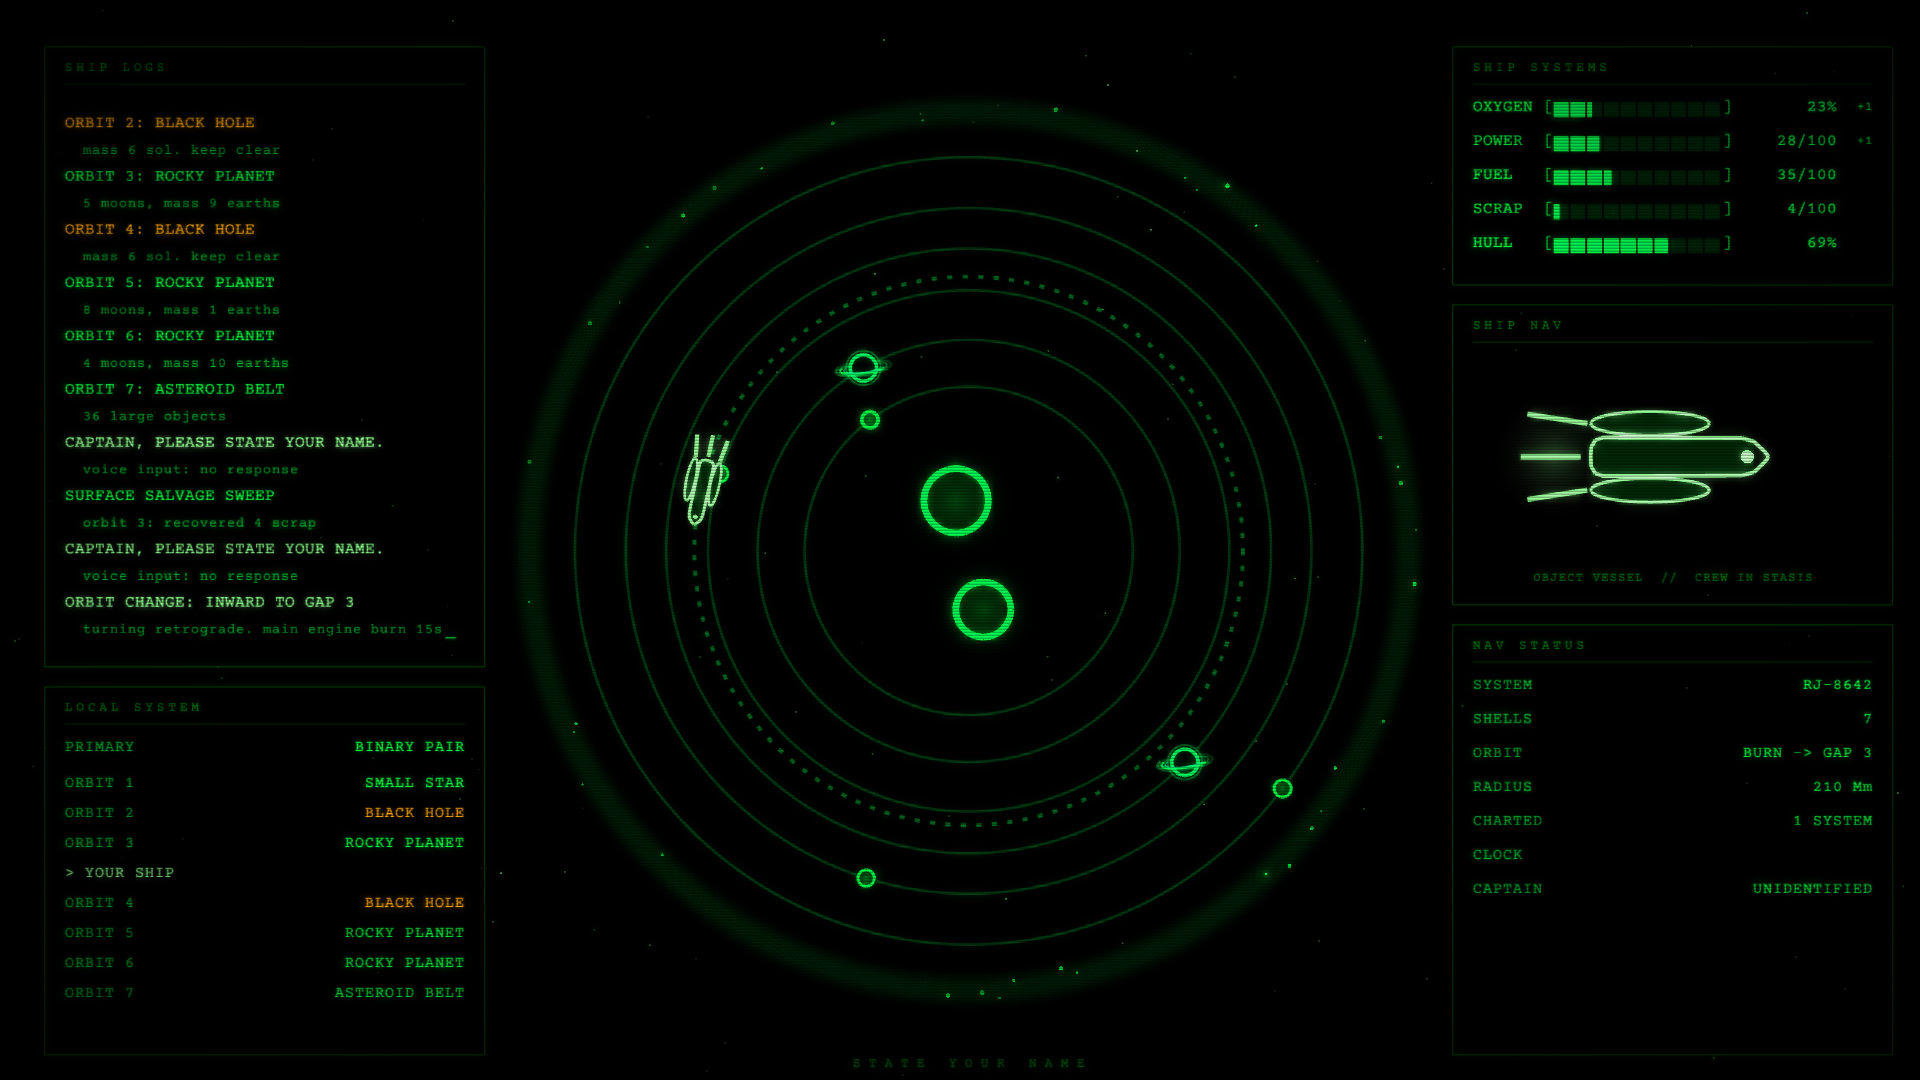
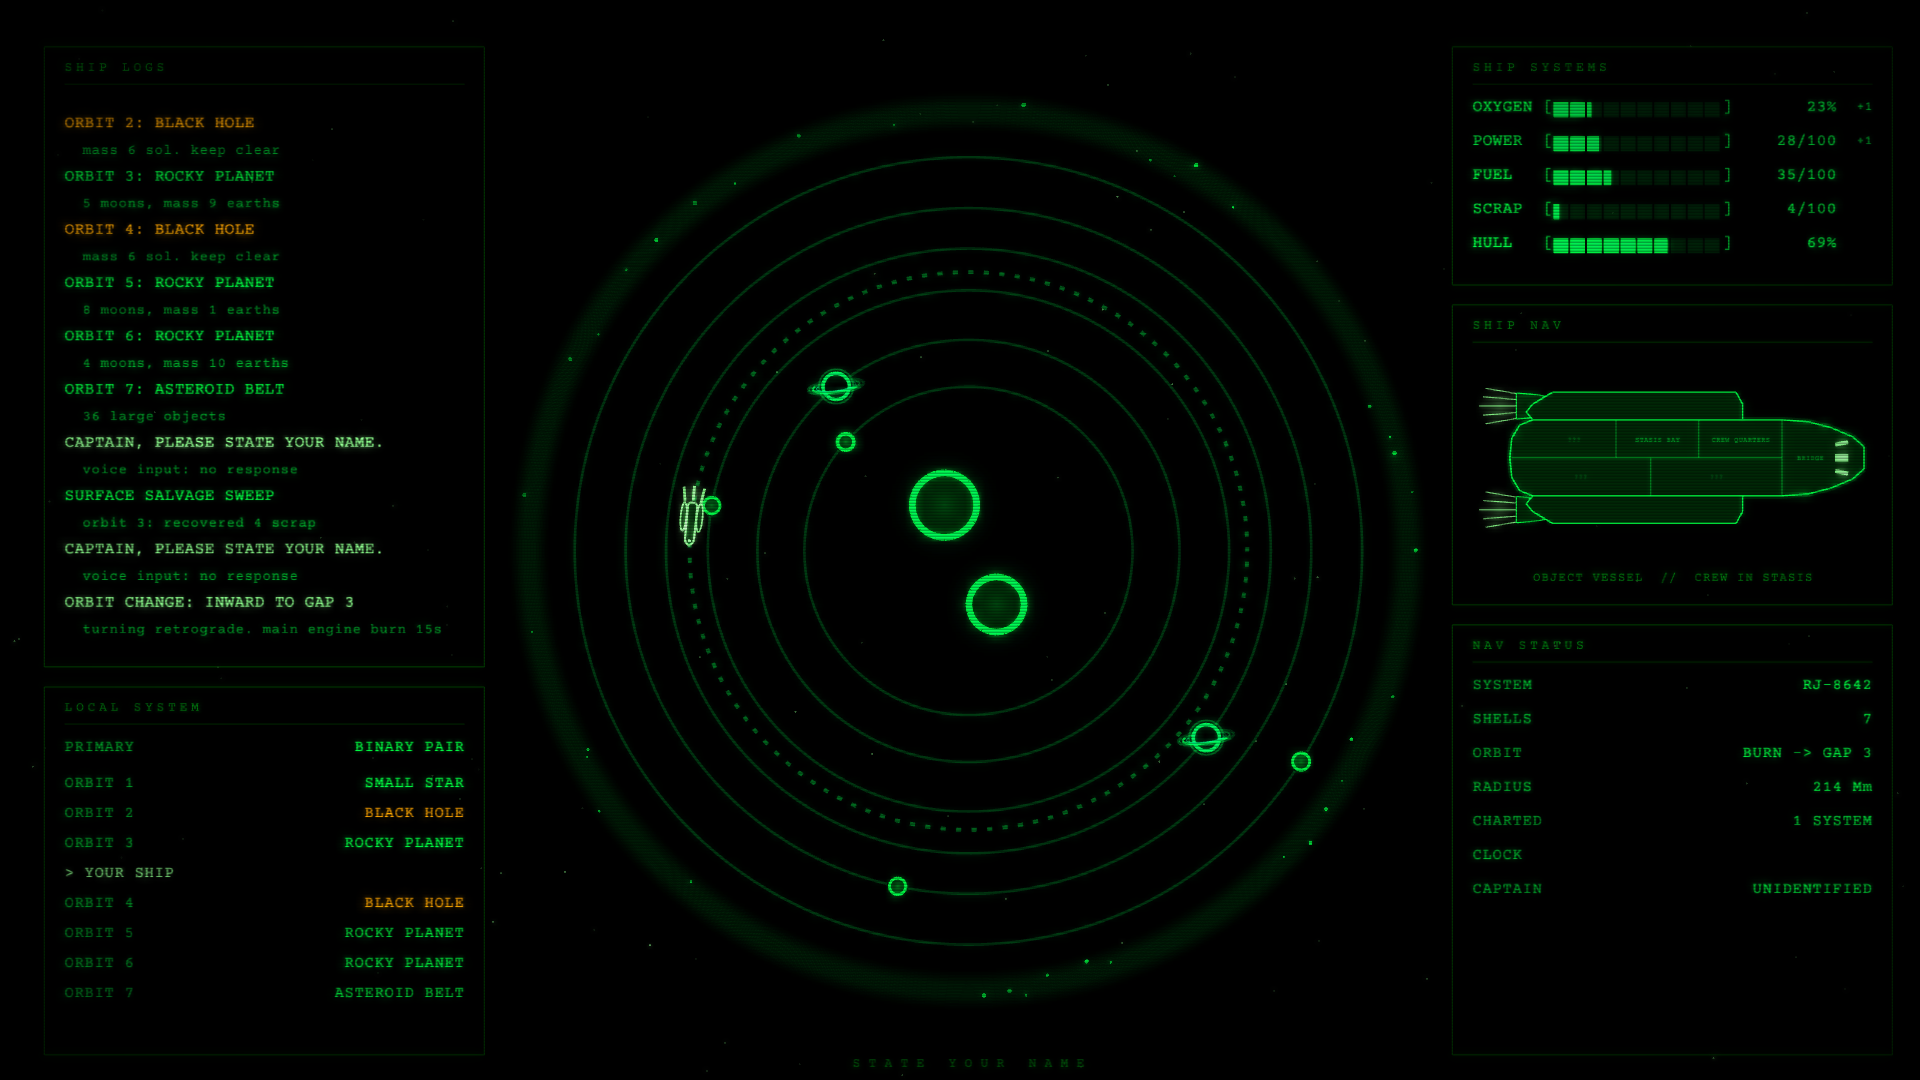
Use the game's ship schematic; shrink the orbiting ship
- SHIP NAV panel now draws the game's top-down ship plan: hull with
  tapered bridge and viewports, twin engine pods with flared nozzles and
  five-line exhaust fans, section dividers, and room labels (??? for
  locked rooms)
- Add polygon fill and polyline primitives for it
- Orbiting ship in the system view is about a third smaller
- Refresh README screenshot and GIFs

diff --git a/src/Screensaver/Hud/ShipSchematic.cs b/src/Screensaver/Hud/ShipSchematic.cs
@@ -1,0 +1,112 @@
+using System;
+using System.Collections.Generic;
+using System.Linq;
+using Microsoft.Xna.Framework;
+using StateYourNameScreensaver.Rendering;
+
+namespace StateYourNameScreensaver.Hud;
+
+/// <summary>
+/// The top-down ship plan from the game's SHIP NAV panel (bow to the right): a long hull with
+/// the bridge at the nose, two engine pods with flared nozzles, and the ship's sections.
+/// Coordinates are in the game's 680×300 schematic space.
+/// </summary>
+public static class ShipSchematic
+{
+	static readonly Vector2[] Hull = P(
+		120, 92, 500, 92, 540, 95, 575, 104, 608, 118, 625, 133, 625, 167, 608, 182, 575, 196, 540, 205,
+		500, 208, 120, 208, 100, 200, 88, 180, 85, 150, 88, 120, 100, 100);
+
+	static readonly Vector2[] PortPod = P(150, 50, 430, 50, 440, 68, 440, 92, 120, 92, 110, 80, 120, 68);
+	static readonly Vector2[] StarboardPod = Mirror(PortPod);
+
+	// Engine nozzle flaring back from the pod; the part under the pod is covered when the pod is drawn.
+	static readonly Vector2[] PortNozzle = P(190, 61, 168, 61, 150, 58, 128, 54, 95, 51, 95, 91, 128, 88, 150, 84, 168, 81, 190, 81);
+	static readonly Vector2[] StarboardNozzle = Mirror(PortNozzle);
+
+	static readonly (Vector2 From, Vector2 To)[] Exhaust =
+	{
+		(new(95, 52), new(48, 44)), (new(95, 61), new(44, 57)), (new(95, 71), new(38, 71)),
+		(new(95, 81), new(44, 85)), (new(95, 90), new(48, 98))
+	};
+
+	static readonly (Vector2 From, Vector2 To)[] Dividers =
+	{
+		(new(500, 92), new(500, 208)), (new(88, 150), new(500, 150)),
+		(new(247, 92), new(247, 150)), (new(373, 92), new(373, 150)), (new(300, 150), new(300, 208))
+	};
+
+	static readonly (string Label, Vector2 At)[] Sections =
+	{
+		("BRIDGE", new(555, 150)), ("???", new(183, 122)), ("STASIS BAY", new(310, 122)),
+		("CREW QUARTERS", new(437, 122)), ("???", new(400, 179)), ("???", new(193, 179))
+	};
+
+	// Bridge viewports: (center, size, tilt in degrees)
+	static readonly (Vector2 Center, Vector2 Size, float Tilt)[] Windows =
+	{
+		(new(591, 128), new(20, 6), -12), (new(591, 150), new(20, 12), 0), (new(591, 172), new(20, 6), 12)
+	};
+
+	// The game's view box.
+	static readonly Rectangle View = new(28, 34, 610, 232);
+
+	static Vector2[] P(params float[] xy) => Enumerable.Range(0, xy.Length / 2).Select(i => new Vector2(xy[i * 2], xy[i * 2 + 1])).ToArray();
+	static Vector2[] Mirror(Vector2[] points) => points.Select(p => new Vector2(p.X, 300 - p.Y)).ToArray();
+
+	public static void Draw(Prim p, Text text, Vector2 at, Vector2 size, float time, bool exhaust, float fade)
+	{
+		float scale = Math.Min(size.X / View.Width, size.Y / View.Height);
+		var origin = at + (size - new Vector2(View.Width, View.Height) * scale) / 2 - new Vector2(View.X, View.Y) * scale
+			+ new Vector2(0, MathF.Sin(time * 0.6f) * 2);
+		Vector2 T(Vector2 v) => origin + v * scale;
+		Vector2[] Map(Vector2[] shape) => shape.Select(T).ToArray();
+		float line = Math.Max(1.4f, 2.2f * scale);
+		var stroke = Palette.Bright * fade;
+		var fill = Palette.StarFill * fade;
+
+		if (exhaust)
+		{
+			float flicker = 0.75f + 0.25f * MathF.Sin(time * 40);
+			foreach (float mirror in new[] { 0f, 1f })
+			foreach (var (from, to) in Exhaust)
+			{
+				Vector2 M(Vector2 v) => mirror == 0 ? v : new Vector2(v.X, 300 - v.Y);
+				p.Line(T(M(from)), T(M(to)), Palette.Pale * (0.8f * flicker * fade), line * 0.8f);
+			}
+			p.Glow(T(new(70, 71)), 40 * scale, Palette.Pale * (0.16f * fade));
+			p.Glow(T(new(70, 229)), 40 * scale, Palette.Pale * (0.16f * fade));
+		}
+
+		foreach (var nozzle in new[] { PortNozzle, StarboardNozzle })
+		{
+			p.FillPolygon(Map(nozzle), fill);
+			p.Polyline(Map(nozzle), stroke * 0.85f, line * 0.8f);
+		}
+
+		// Soft glow under the hull outline, then the solid shapes.
+		p.Polyline(Map(Hull), Palette.Bright * (0.12f * fade), line * 4);
+		foreach (var shape in new[] { PortPod, StarboardPod, Hull })
+		{
+			p.FillPolygon(Map(shape), fill);
+			p.Polyline(Map(shape), stroke, line);
+		}
+
+		foreach (var (from, to) in Dividers) p.Line(T(from), T(to), Palette.Bright * (0.45f * fade), line * 0.55f);
+
+		foreach (var (center, extent, tilt) in Windows)
+		{
+			p.RotatedRect(T(center), extent * scale, MathHelper.ToRadians(tilt), Palette.Pale * (0.85f * fade));
+			p.Glow(T(center), 14 * scale, Palette.Pale * (0.25f * fade));
+		}
+
+		float labelSize = Math.Max(7.5f, 12 * scale);
+		foreach (var (label, center) in Sections)
+		{
+			var m = text.Measure(label, labelSize, 0.5f);
+			// The bridge label sits a little aft of centre so it clears the viewports.
+			var at2 = T(center) - m / 2 - (label == "BRIDGE" ? new Vector2(12 * scale, 0) : Vector2.Zero);
+			text.Draw(label, at2, labelSize, Palette.Bright * ((label == "???" ? 0.35f : 0.6f) * fade), 0.5f);
+		}
+	}
+}

diff --git a/src/Screensaver/Rendering/Prim.cs b/src/Screensaver/Rendering/Prim.cs
@@ -128,6 +128,34 @@ public sealed class Prim
 	public void Glow(Vector2 center, float radius, Color color) =>
 		_batch.Draw(_glow, center, null, color, 0, new Vector2(128, 128), radius / 127.5f, SpriteEffects.None, 0);
 
+	/// <summary>Fills a simple polygon with horizontal scanline spans (even-odd rule).</summary>
+	public void FillPolygon(System.Collections.Generic.IReadOnlyList<Vector2> points, Color color)
+	{
+		float top = float.MaxValue, bottom = float.MinValue;
+		foreach (var p in points) { top = Math.Min(top, p.Y); bottom = Math.Max(bottom, p.Y); }
+		float step = 1f / PixelScale;
+		var crossings = new System.Collections.Generic.List<float>();
+		for (float y = top + step / 2; y < bottom; y += step)
+		{
+			crossings.Clear();
+			for (int i = 0; i < points.Count; i++)
+			{
+				var a = points[i]; var b = points[(i + 1) % points.Count];
+				if ((a.Y <= y) == (b.Y <= y)) continue;
+				crossings.Add(a.X + (y - a.Y) / (b.Y - a.Y) * (b.X - a.X));
+			}
+			crossings.Sort();
+			for (int i = 0; i + 1 < crossings.Count; i += 2)
+				RectF(new Vector2(crossings[i], y - step / 2), new Vector2(crossings[i + 1] - crossings[i], step), color);
+		}
+	}
+
+	public void Polyline(System.Collections.Generic.IReadOnlyList<Vector2> points, Color color, float thickness = 1, bool closed = true)
+	{
+		for (int i = 0; i + (closed ? 0 : 1) < points.Count; i++)
+			Line(points[i], points[(i + 1) % points.Count], color, thickness);
+	}
+
 	/// <summary>A soft band (like an asteroid belt halo) built from concentric hairlines.</summary>
 	public void Band(Vector2 center, float radius, float halfWidth, Color color, float coreOpacity, float edgeOpacity)
 	{

diff --git a/src/Screensaver/Hud/Readouts.cs b/src/Screensaver/Hud/Readouts.cs
@@ -47,8 +47,7 @@ public static class Readouts
 
 	public static void Vessel(Prim p, Text text, Vector2 at, Vector2 size, float time, bool exhaust, float fade)
 	{
-		var center = at + new Vector2(size.X * 0.52f, size.Y * 0.42f + MathF.Sin(time * 0.6f) * 3);
-		SystemView.DrawShipShape(p, center, 0, size.X / 30f, fade, exhaust, lineScale: 0.45f);
+		ShipSchematic.Draw(p, text, at, new Vector2(size.X, size.Y - 34), time, exhaust, fade);
 		string caption = "OBJECT VESSEL  //  CREW IN STASIS";
 		text.Draw(caption, new Vector2(at.X + (size.X - text.Measure(caption, 14, 1.5f).X) / 2, at.Y + size.Y - 26), 14, Palette.Dim * fade, 1.5f);
 	}

diff --git a/src/Screensaver/World/SystemView.cs b/src/Screensaver/World/SystemView.cs
@@ -172,7 +172,7 @@ public sealed class SystemView
 		new(5.5f, 1.15f), new(6.3f, 0.4f)
 	};
 
-	const float ShipScale = 1.9f;
+	const float ShipScale = 1.25f;
 
 	void DrawShip(Prim p, Ship ship, float fade)
 	{
